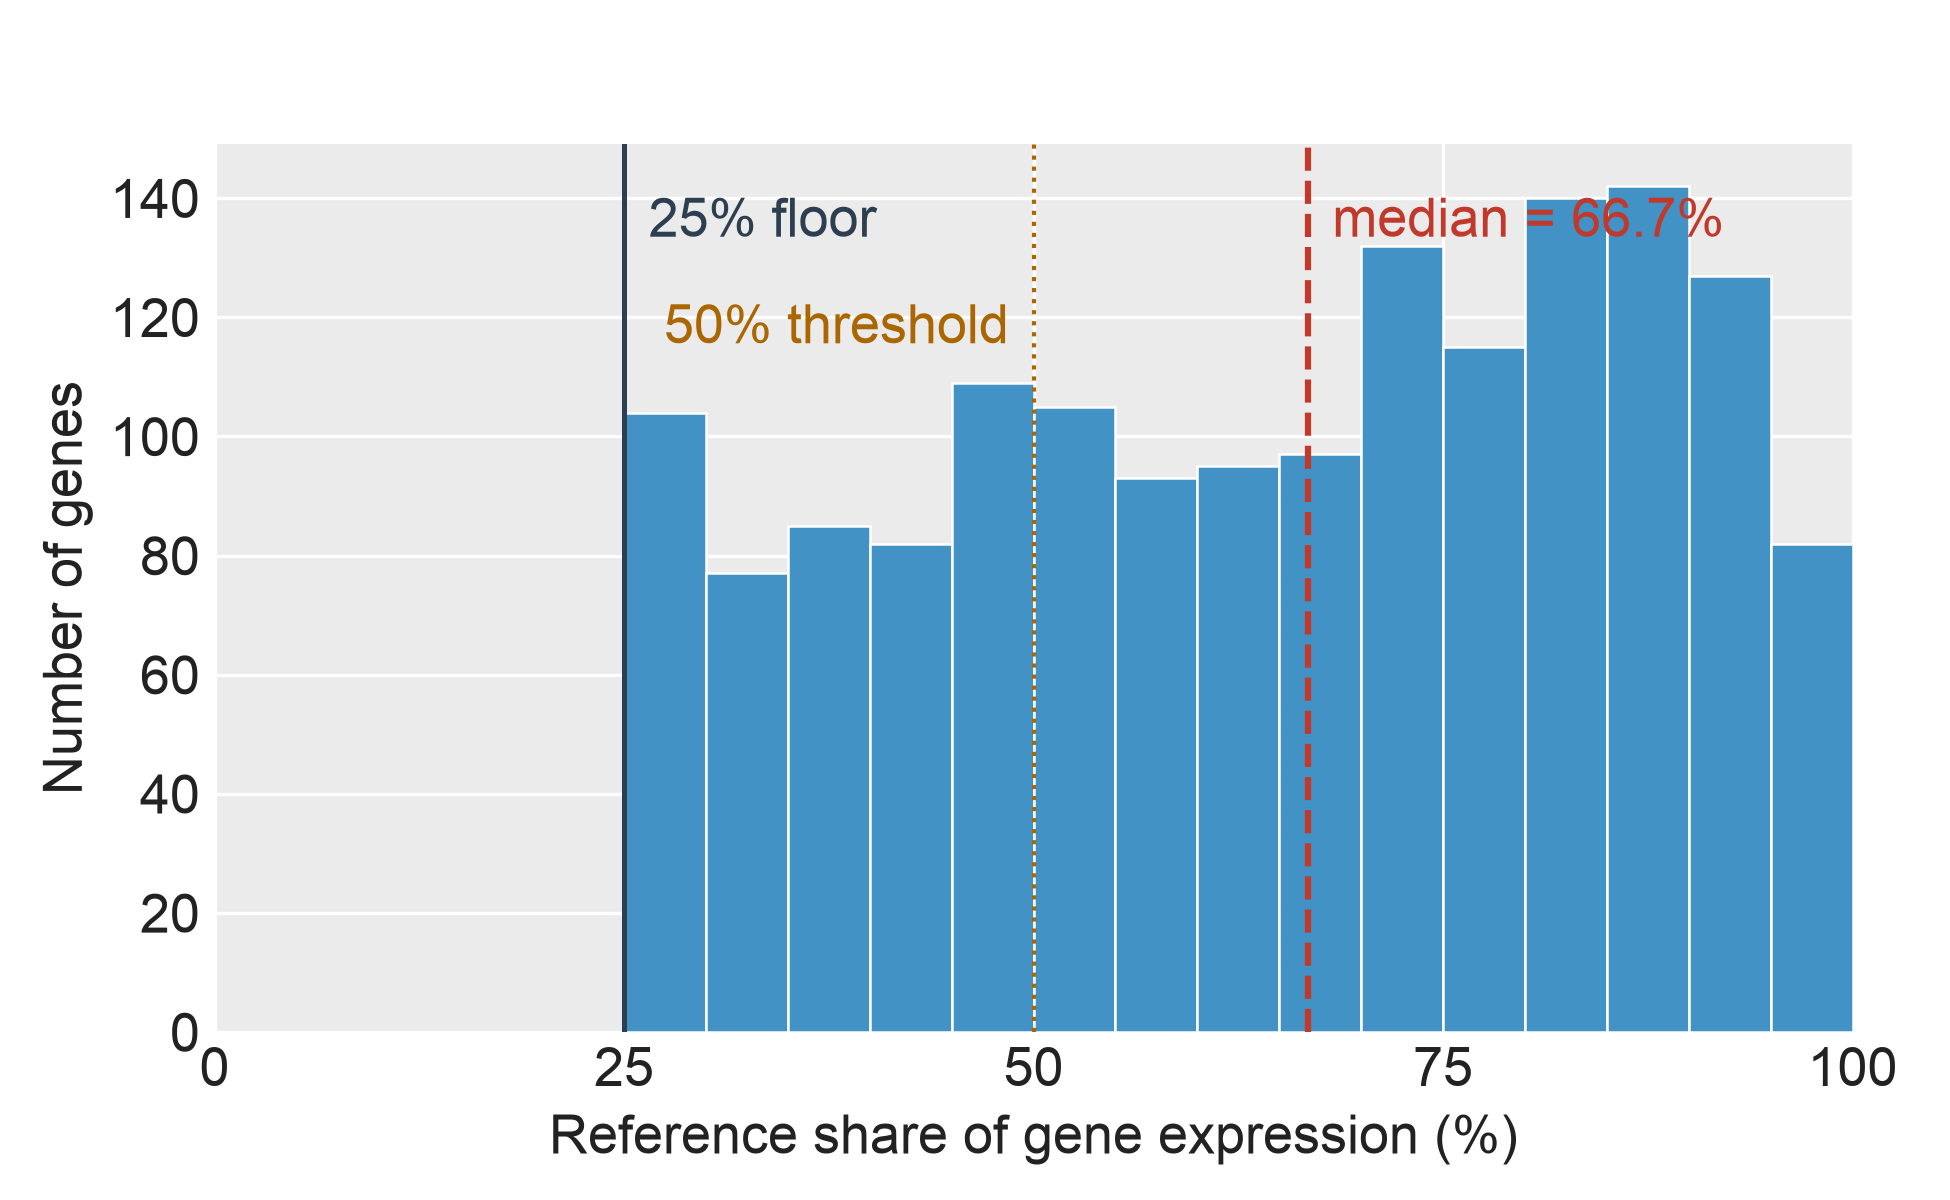
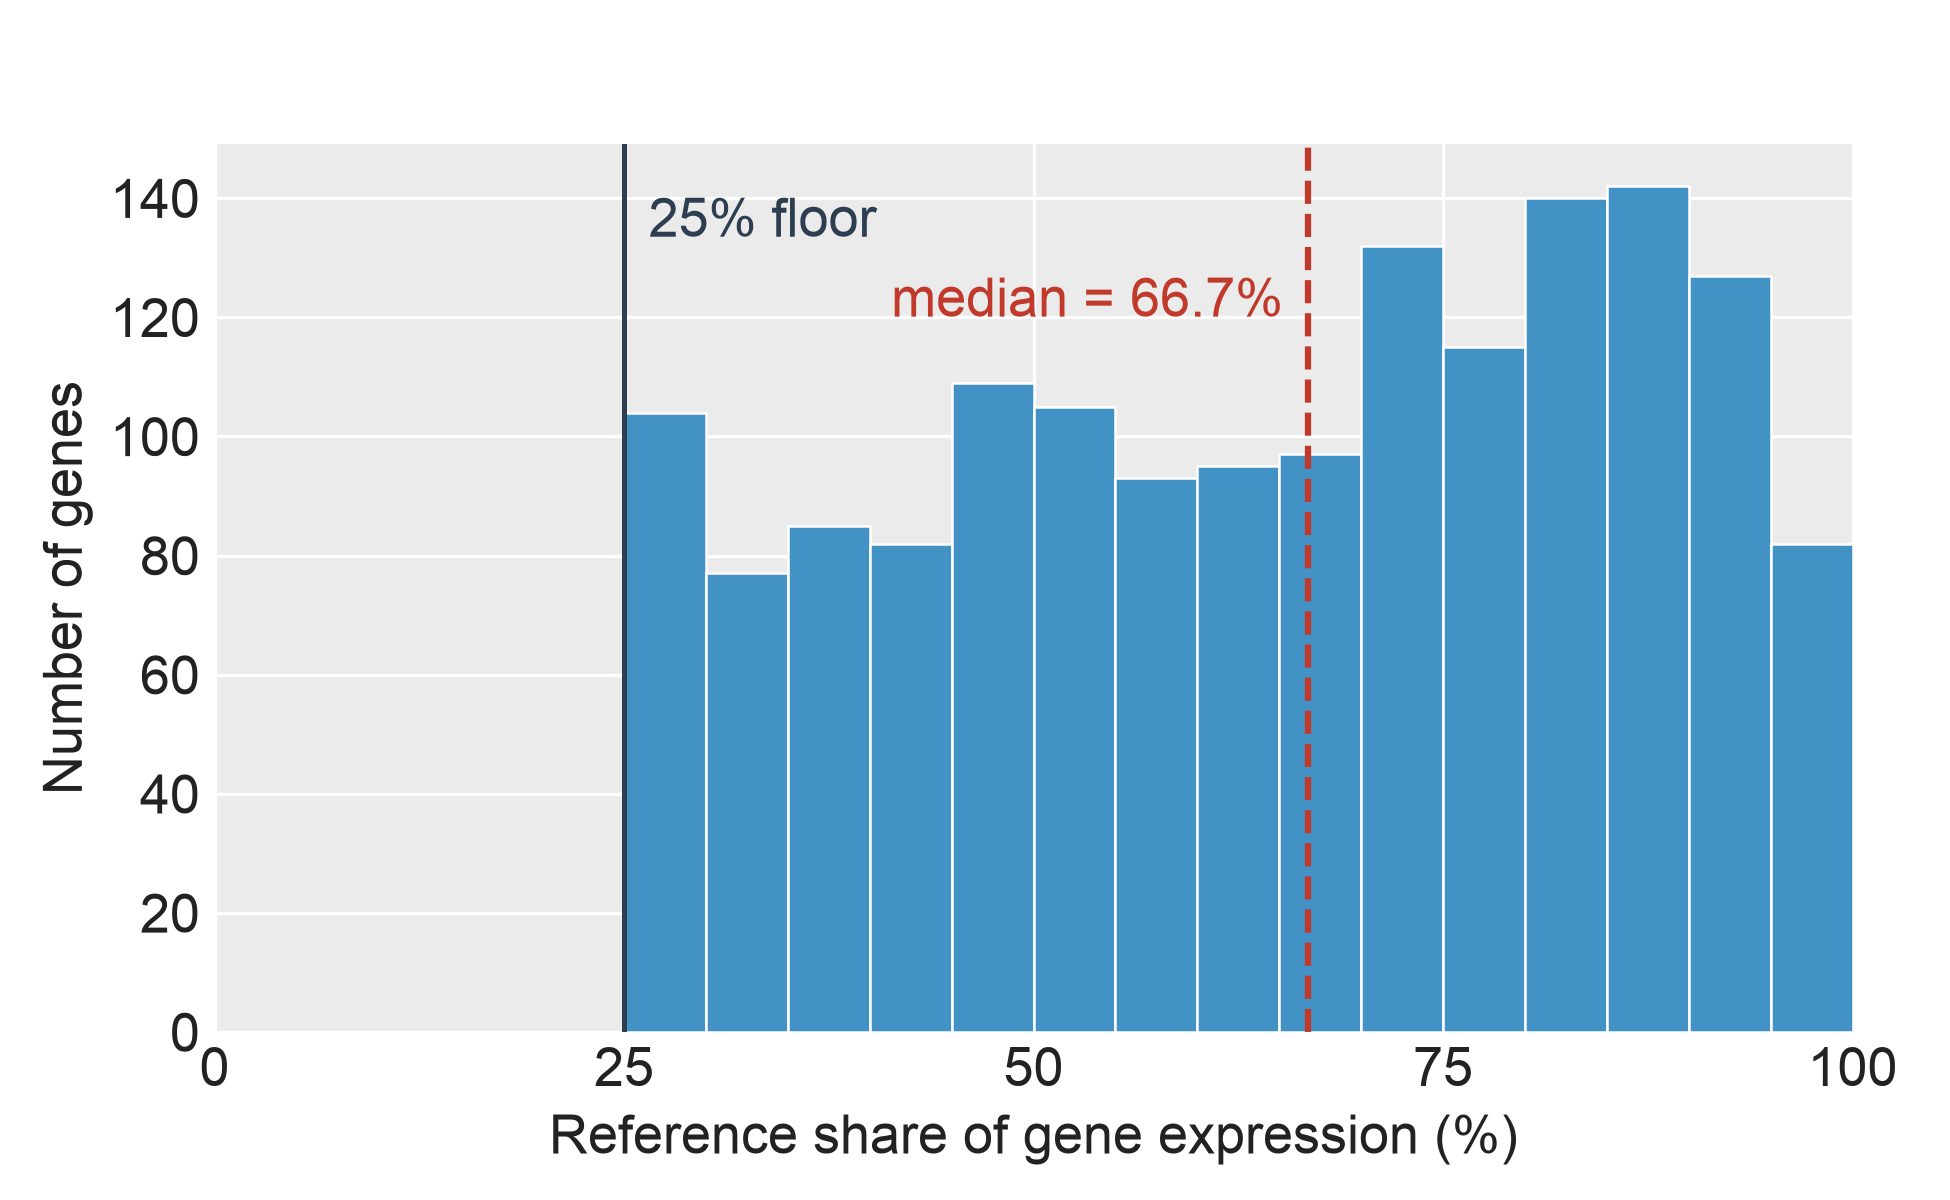
SF26: drop 50% threshold line, move median label clear of bars
Per Pete: remove the 50% threshold line + label; move the median annotation
to the left of its line (tall bars are on the right, 70-95%) and stagger it
down so it clears both the bars and the 25% floor label. assert_data_free
missed the prior overlap because it allows up to 15% text-bbox/data overlap
(peripheral-caption tolerance) and the label only grazed the tall bar tops.

Changed region(s): [[0.3385, 0.2158, 0.6462, 0.3083], [0.6769, 0.1542, 0.8923, 0.2158]]

diff --git a/figures/SupplementalFigures/SF26_ReferenceShare/figure_sf26_reference_share.py b/figures/SupplementalFigures/SF26_ReferenceShare/figure_sf26_reference_share.py
@@ -68,22 +68,16 @@ def main():
 
     floor_pct = float(summary.loc["floor_pct"])
     ax.axvline(med, linestyle="--", color="#c0392b", linewidth=1.5, zorder=4)
-    ax.axvline(50, linestyle=":",  color="#aa6600", linewidth=1.0, zorder=4)
     ax.axvline(floor_pct, linestyle="-", color="#2c3e50", linewidth=1.2, zorder=4)
     ymax = ax.get_ylim()[1]
+    # Median label to the LEFT of its line — the tall bars sit to the right
+    # (70-95% share), so a left-side label clears the histogram.
     ax.text(
-        med + 1.5, ymax * 0.94,
+        med - 1.5, ymax * 0.85,
         f"median = {med:.1f}%",
-        ha="left", va="top",
-        fontsize=BODY_FS,
-        color="#c0392b",
-    )
-    ax.text(
-        50 - 1.5, ymax * 0.82,
-        "50% threshold",
         ha="right", va="top",
         fontsize=BODY_FS,
-        color="#aa6600",
+        color="#c0392b",
     )
     ax.text(
         floor_pct + 1.5, ymax * 0.94,
